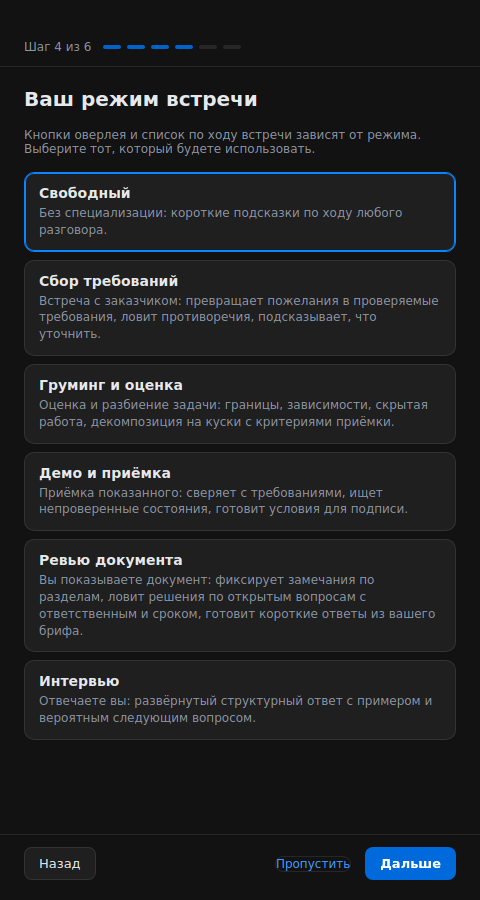
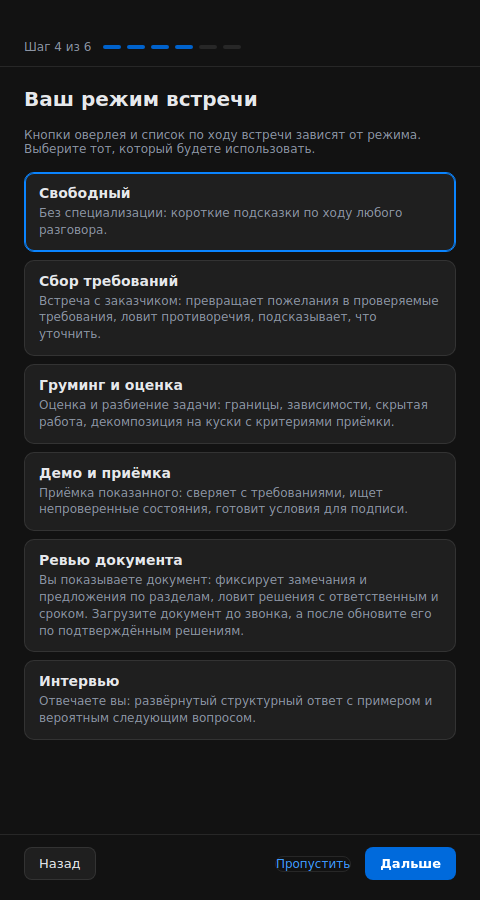
Review mode docs, screenshots and self-review fixes
READMEs (EN/RU): what the review mode does with the document, what goes to
the model when, the decisions file format, the honest limitation. CHANGELOG,
MAC_VERIFY step 9b (EN/RU), screenshots regenerated by the E2E suite, the
guide's review image with proposals. Fixes: larger answer cap for a review
summary with decisions (a cut JSON tail would lose agenda and actions), the
summary cost counts the decisions in the answer, the document field never
overwrites fresh typing, the index is not rebuilt on every keystroke.

Claude-Session: https://claude.ai/code/session_015aQgzusoHhv4LZqSKqDoPj

Changed region(s): [[0.0938, 0.6222, 0.9062, 0.7156]]

diff --git a/electron/main.ts b/electron/main.ts
@@ -412,7 +412,7 @@ const SCREENSHOT_MODE_ANSWERS: Partial<Record<MeetingMode, string>> = {
   demo:
     "Отклонение: по требованию выше порога нужен звонок, показано без подтверждения.\nОтклонение: нет сообщения об ошибке при лимите ниже нуля.\nПопросите показать: что видит клиент, если колл-центр не дозвонился.",
   review:
-    "Замечание: раздел 3, порог подтверждения не указан, сказал владелец продукта.\nЗамечание: раздел 5, нет схемы интеграции, сказал архитектор.\nРешение: порог 300 тысяч принят, владелец аналитик, срок пятница.",
+    "Замечание: раздел 3, порог подтверждения не указан, сказал владелец продукта.\nЗамечание: раздел 5, нет схемы интеграции, сказал архитектор.\nПредложение: раздел 3.1, поднять размер страницы до 100 записей, сказал разработчик.\nРешение: порог 300 тысяч принят, владелец аналитик, срок пятница.",
 };
 
 // Design check without a Mac: AVALET_SCREENSHOT_DIR=<dir> electron . renders

diff --git a/src/renderer/components/ArtifactField.tsx b/src/renderer/components/ArtifactField.tsx
@@ -1,4 +1,4 @@
-import { useEffect, useRef, useState } from "react";
+import { useEffect, useMemo, useRef, useState } from "react";
 import { getBridge } from "../lib/bridge.js";
 import { UI_STRINGS, type UiLanguage } from "../lib/i18n.js";
 import { useAppSettings } from "../lib/settings.js";
@@ -22,12 +22,16 @@ export function ArtifactField({ uiLanguage }: { uiLanguage: UiLanguage }) {
   const [edited, setEdited] = useState(false);
   const [error, setError] = useState<string | null>(null);
   const fileRef = useRef<HTMLInputElement | null>(null);
+  const savedRef = useRef(saved);
+  savedRef.current = saved;
   const locked = session.state !== "idle";
 
-  // The stored document, again after a meeting ends (it may have been set elsewhere).
+  // The stored document, again after a meeting ends (it may have been set elsewhere);
+  // never over text typed since the last save.
   useEffect(() => {
-    if (!saved) return;
+    if (!savedRef.current) return;
     void bridge.settings.getArtifact().then((doc) => {
+      if (!savedRef.current) return;
       setText(doc.text);
       setName(doc.name);
     });
@@ -76,7 +80,7 @@ export function ArtifactField({ uiLanguage }: { uiLanguage: UiLanguage }) {
     }
   }
 
-  const cost = artifactFieldCost(settings.meetingMode, text);
+  const cost = useMemo(() => artifactFieldCost(settings.meetingMode, text), [settings.meetingMode, text]);
   const fmt = (n: number) => formatTokens(n, uiLanguage);
 
   return (

diff --git a/src/renderer/lib/artifact-cost.ts b/src/renderer/lib/artifact-cost.ts
@@ -6,6 +6,7 @@ import {
   expectedReplyChars,
   patchDecisions,
   SUMMARY_ARTIFACT_OVERHEAD_CHARS,
+  SUMMARY_DECISIONS_REPLY_CHARS,
   buildArtifactIndex,
   estimateTokens,
   roundTokens,
@@ -31,7 +32,7 @@ export type FieldCost = {
 export function artifactFieldCost(mode: MeetingMode, text: string): FieldCost | null {
   if (mode !== "review" || !text.trim()) return null;
   return {
-    tokensEach: roundTokens(estimateTokens(text.length + SUMMARY_ARTIFACT_OVERHEAD_CHARS)),
+    tokensEach: roundTokens(estimateTokens(text.length + SUMMARY_ARTIFACT_OVERHEAD_CHARS + SUMMARY_DECISIONS_REPLY_CHARS)),
     indexTokens: roundTokens(estimateTokens(buildArtifactIndex(text).length + LIVE_INDEX_OVERHEAD_CHARS)),
     sectionTokens: roundTokens(estimateTokens(ARTIFACT_SECTION_CHAR_CAP)),
     high: text.length > ARTIFACT_HIGHLIGHT_CHARS,
@@ -43,7 +44,7 @@ export function summaryExtraCost(meeting: { mode: MeetingMode; artifact?: { text
   const text = meeting.artifact?.text ?? "";
   if (meeting.mode !== "review" || !text.trim()) return null;
   return {
-    tokens: roundTokens(estimateTokens(text.length + SUMMARY_ARTIFACT_OVERHEAD_CHARS)),
+    tokens: roundTokens(estimateTokens(text.length + SUMMARY_ARTIFACT_OVERHEAD_CHARS + SUMMARY_DECISIONS_REPLY_CHARS)),
     high: text.length > ARTIFACT_HIGHLIGHT_CHARS,
   };
 }

diff --git a/test/artifact-cost.test.ts b/test/artifact-cost.test.ts
@@ -23,8 +23,8 @@ test("the figure grows with the document and a large one is highlighted", () => 
   assert.ok(large.tokensEach > small.tokensEach * 10);
   assert.equal(small.high, false);
   assert.equal(large.high, true);
-  // 90,000 characters at 3 per token, plus the prompt around it: about 31,000.
-  assert.equal(large.tokensEach, 31_000);
+  // 90,000 characters at 3 per token, plus the prompt around it and the decisions in the answer: about 32,000.
+  assert.equal(large.tokensEach, 32_000);
 });
 
 test("the summary note appears only for a review meeting with a document", () => {

diff --git a/electron/shared/artifact.ts b/electron/shared/artifact.ts
@@ -179,6 +179,8 @@ export function sectionText(raw: string, section: ArtifactSection, cap = ARTIFAC
  * real prompt builders.
  */
 export const SUMMARY_ARTIFACT_OVERHEAD_CHARS = 3_000;
+/** Allowance for the decisions list in the summary's answer. */
+export const SUMMARY_DECISIONS_REPLY_CHARS = 3_000;
 export const PATCH_PROMPT_OVERHEAD_CHARS = 3_500;
 /** Wrapper text around the index in a live call. */
 export const LIVE_INDEX_OVERHEAD_CHARS = 250;

diff --git a/electron/meeting-summary.ts b/electron/meeting-summary.ts
@@ -52,7 +52,8 @@ export async function summarizeMeeting(
       artifact: meeting.artifact?.text,
     }),
     transcript,
-    maxTokens: 6000,
+    // The decisions list makes the answer longer; a cut-off JSON tail would lose agenda and actions too.
+    maxTokens: meeting.mode === "review" && meeting.artifact?.text ? 9000 : 6000,
     signal,
     onDelta: (delta) => {
       collected += delta;

diff --git a/README.ru.md b/README.ru.md
@@ -23,8 +23,9 @@
 - **Распознавание речи, которое следует за разговором.** Звук режется по естественным паузам на целые фразы, а не на равные куски, а язык речи задаётся, а не угадывается каждый раз. Модель распознавания одна (faster-whisper small), выбирать ничего не нужно. Наушники полностью убирают эхо от динамиков.
 - **Контекст встречи.** Вставьте тикет, ТЗ или повестку до звонка, и каждая подсказка будет опираться на них.
 - **Ручной вопрос, быстрые кнопки, скриншот.** Спросите что угодно в любой момент, нажмите "Итог" / "Риски?" / "Уточняющий вопрос" / "Объяснить" или отправьте скриншот экрана для приоритетного разбора. Модели с картинками (Claude, OpenAI, DeepSeek) получают изображение, это быстрый путь; по желанию в настройках можно добавить текст, распознанный на вашем Mac, для точных имён, чисел и кода (примерно на секунду медленнее). Модели без картинок (локальные) всегда видят экран как распознанный текст. Если провайдер отверг картинку, Avalet повторит запрос с текстом.
-- **Режимы встречи.** Сбор требований, груминг и оценка, демо и приёмка, ревью документа, интервью или свободный: каждый смещает, на что ассистент обращает внимание. Четыре из них ещё и ведут в оверлее свой список по ходу встречи, собранный из подсказок без лишних запросов к модели: требования и риски, предложенные срезы и отдельные задачи, отклонения и что попросить показать, замечания и решения. Одна кнопка копирует его.
-- **Транскрипт и итог встречи.** Каждый звонок сохраняется как встреча с транскриптом по репликам, со временем и говорящим. Одна кнопка пишет итог в формате аналитика: решения, открытые вопросы, требования, риски, задачи. Экспорт в Markdown или копирование чистым текстом.
+- **Режимы встречи.** Сбор требований, груминг и оценка, демо и приёмка, ревью документа, интервью или свободный: каждый смещает, на что ассистент обращает внимание. Четыре из них ещё и ведут в оверлее свой список по ходу встречи, собранный из подсказок без лишних запросов к модели: требования и риски, предложенные срезы и отдельные задачи, отклонения и что попросить показать, замечания, предложения и решения. Одна кнопка копирует его.
+- **Ревью документа помогает обновить спецификацию.** До звонка загрузите спецификацию, которую обсуждаете (файл `.md` или `.txt` либо вставленный текст, до 200 000 символов). Во время звонка ассистент видит только её оглавление, поэтому подсказки не дорожают; после звонка в итогах будут решения, которые действительно приняли: раздел, старая и новая формулировка и слова, которые прозвучали. Вы проверяете и поправляете их, нажимаете «Обновить документ», просматриваете каждую правку рядом с исходным текстом, применяете нужные и скачиваете обновлённый `.md`. Модель только предлагает правки в точных местах, применяет их приложение, исходный текст сохраняется. Перед каждым дополнительным расходом (документ в итогах и в обновлении) приложение показывает примерное число токенов.
+- **Транскрипт и итог встречи.** Каждый звонок сохраняется как встреча с транскриптом по репликам, со временем и говорящим. Одна кнопка пишет итог в формате аналитика: решения, открытые вопросы, требования, риски, задачи. Экспорт в Markdown или копирование чистым текстом. В ревью документа можно ещё скачать обновлённый документ и файл решений (см. ниже).
 - **Пауза / Продолжить / Завершить / история.** Кнопки с подписями в оверлее и в главном окне: Пауза замораживает подсказки, ничего не теряя, старые блоки листаются, продолжить можно мгновенно; Завершить закрывает встречу и прячет оверлей. История хранится на диске.
 - **Видно, сколько потрачено токенов.** Счётчики берутся из ответов самих провайдеров, за месяц и за встречу, в Настройках; в оверлее маленькое число за текущую встречу. Для фоновой работы можно поставить модель дешевле. Когда токены Avalet заканчиваются, ничего не ломается: расшифровка продолжает писаться, а приложение предлагает докупить токены или подключить свой ключ.
 - **Оверлей не попадает в вашу демонстрацию экрана** (защита контента macOS), как заметки докладчика.
@@ -90,6 +91,32 @@ npm run dev
 - **Распознавание речи** полностью локальное: `faster-whisper` в `python-sidecar/server.py`, общение по JSON-RPC через stdin/stdout.
 - **Триггер авто-подсказок:** дешёвая регулярка по свежему транскрипту плюс сигнал "собеседник замолчал" из таймингов сегментов whisper. Без лишнего вызова модели. Частота зависит от режима встречи: в интервью ответ сразу (не чаще раза в 6 секунд); в свободном режиме не чаще раза в 15 секунд и после полноценной фразы; в режимах со своим списком примерно раз в 25 секунд, после существенного высказывания или вопроса. Свой вопрос, быстрые кнопки, скриншот и "Обработать сейчас" отвечают сразу всегда.
 
+### Ревью документа: что куда уходит
+
+- **До звонка:** документ хранится в локальных настройках приложения и при Старте копируется во встречу ревью. Он уходит только выбранному вами провайдеру модели, как и транскрипт, и никогда не пишется в лог.
+- **Во время звонка:** подсказки получают оглавление, собранное из заголовков документа (номера разделов, первые строки, раздел «Открытые вопросы» дословно), не длиннее 4 000 символов. Если в заданном вопросе назвать раздел («что в разделе 3.2?»), к вопросу добавится этот раздел.
+- **После звонка:** итоги получают весь документ только как справку (названия разделов и старые формулировки); решения берутся только из транскрипта, а «принято» требует явного согласия в нём. «Обновить документ» один раз отправляет документ и отмеченные решения; в ответ приходит список правок в точных местах, приложение проверяет их (место должно быть и встречаться один раз) и показывает до применения.
+- **Файл решений** (`<встреча> - decisions.md`) с постоянными заголовками, чтобы передать его вместе с исходным документом:
+
+```
+# Решения: <название встречи>
+Дата: ...
+Документ: <имя файла>
+
+## 1. <решение в виде правки>
+- Раздел: 3.1 GET /activities
+- Статус: Принято | Предложено | Отклонено | Не решено
+- Было: <старая формулировка или «нет»>
+- Стало: <новая формулировка или «нет»>
+- Кто: <как прозвучало на звонке>
+- Цитата: «<точные слова>» (<кто>, 00:12:04)
+
+## Поручения
+- <задача> (<ответственный>, <срок>)
+```
+
+В файл попадают только отмеченные решения; заголовки на языке интерфейса (английский: Decisions, Date, Document, Section, Status, Was, Becomes, Who, Quote, Action points).
+
 ## Экраны
 
 | Первый запуск | Встреча в простом режиме | Оверлей |
@@ -102,6 +129,7 @@ npm run dev
 
 - **Вариант "Avalet без ключей" пока не запущен.** Клиентская часть готова и проверена на тестовом сервере; сервер оплаты, его ключ подписи и платёжный шлюз ещё не развёрнуты. До тех пор приложение показывает этот вариант как "Скоро", не обращается к серверу оплаты и работает с вашим ключом.
 - **Живой чек-лист ещё не проверен на реальных встречах.** В простом режиме он выключен, в расширенном включён.
+- **Решения и правки в ревью документа ещё не проверены на настоящей модели.** Весь путь проверен сквозными тестами с моделью-заглушкой; насколько хорошо настоящая модель находит решения и точные места, покажут реальные звонки. Итоги с документом и обновление отправляют весь документ, поэтому для очень длинного нужен провайдер с большим контекстом.
 - **Захват системного звука бывает хрупким.** Используется [`electron-audio-loopback`](https://github.com/alectrocute/electron-audio-loopback) (MIT); нужна macOS 13.2+. Если звук собеседника не идёт, появится баннер с кнопкой **Переподключить**. Только микрофон работает всегда.
 - **Неподписанная сборка.** См. шаги установки выше. Подпись и автообновление в планах.
 - **Модель распознавания скачивается с Hugging Face** при первом запуске. Если из вашей сети это медленно или недоступно, включите VPN на время первой загрузки (наш: [ast-net.ru](https://ast-net.ru)); дальше модель лежит в кэше. Модель внутри приложения в планах.

diff --git a/README.md b/README.md
@@ -23,8 +23,9 @@ Local-first: audio never leaves your Mac and transcription runs on-device. For t
 - **Speech recognition that follows the conversation.** Audio is cut at natural pauses into whole phrases rather than fixed slices, and the spoken language is fixed rather than guessed every time. There is one speech model (faster-whisper small), no choice to make. Headphones remove the speaker echo completely.
 - **Meeting context.** Paste the ticket, spec, or agenda before the call; every suggestion is grounded in it.
 - **Manual ask, quick actions, screenshot.** Type a question any time, tap "Summarize" / "Risks?" / "Ask a question" / "Explain this", or send a screenshot of your screen for a priority read. Models that see images (Claude, OpenAI, DeepSeek) get the picture, which is the fast path; an optional setting adds the text recognized on your Mac for exact names, numbers and code (about a second slower). Models that do not (local ones) always get the screen as recognized text. If a provider refuses the image, Avalet retries with the text.
-- **Meeting modes.** Requirements gathering, grooming and estimation, demo and acceptance, document review, interview, or free: each shifts what the assistant pays attention to. Four of them also keep a running list in the overlay, collected from the suggestions with no extra model call: candidate requirements and risks, proposed slices and separate tasks, deviations and what to ask to see, remarks and decisions. One click copies it.
-- **Transcript and meeting summary.** Every call is saved as a meeting with a timestamped, speaker-tagged transcript. One button writes the summary in an analyst's format: decisions, open questions, requirements, risks, tasks. Export to Markdown or copy as plain text.
+- **Meeting modes.** Requirements gathering, grooming and estimation, demo and acceptance, document review, interview, or free: each shifts what the assistant pays attention to. Four of them also keep a running list in the overlay, collected from the suggestions with no extra model call: candidate requirements and risks, proposed slices and separate tasks, deviations and what to ask to see, remarks, proposals and decisions. One click copies it.
+- **Document review keeps your specification in sync.** Load the specification you are discussing (a `.md` or `.txt` file, or pasted, up to 200,000 characters) before the call. During the call the assistant sees only its table of contents, so hints stay cheap; after the call the summary returns the decisions that were actually taken, each with its section, old and new wording and the words that were said. You check and correct them, press "Update the document", look through every proposed change next to the original, apply the ones you want and download the updated `.md`. The model only proposes changes to exact places; the app applies them and keeps the original. Before each extra spend (the document's share of the summary and of the update) the app shows a rough token figure.
+- **Transcript and meeting summary.** Every call is saved as a meeting with a timestamped, speaker-tagged transcript. One button writes the summary in an analyst's format: decisions, open questions, requirements, risks, tasks. Export to Markdown or copy as plain text. In document review you can also download the updated document and a decisions file (see below).
 - **Pause / Resume / End / history.** Labelled buttons in the overlay and the main window: Pause freezes live output without losing anything, page through earlier blocks, resume instantly; End closes the meeting and hides the overlay. History is kept on disk.
 - **Token usage you can see.** Counts come from the providers' own responses, per month and per meeting, in Settings; the overlay shows a small per-meeting number. Background work can use a cheaper model. When Avalet tokens run out, nothing breaks: the transcript keeps recording and the app offers more tokens or your own key.
 - **Overlay stays out of your screen share** (macOS content protection), the way presenter notes do.
@@ -90,6 +91,32 @@ system audio (loopback)               5s WAV chunks, tagged "other"
 - **Speech to text** is fully local: `faster-whisper` in `python-sidecar/server.py`, talked to over newline-delimited JSON-RPC on stdin/stdout.
 - **Auto-suggest trigger:** a cheap regex over the freshly heard transcript plus a VAD-based "they stopped talking" signal from whisper's own segment timing. No extra model call. The pace depends on the meeting mode: interview answers at once (at most every 6 s); free waits for at least 15 s and a real sentence; the modes with a running list wait for about 25 s and a substantial statement or a question. Typed questions, quick actions, Screenshot and "Process now" always answer at once.
 
+### Document review: what goes where
+
+- **Before the call:** the document is kept in the app's local settings and copied onto the review meeting at Start. It is sent only to the model provider you chose, like the transcript, and never written to the log.
+- **During the call:** live hints get a table of contents built from the document's headings (section numbers, first lines, an "Open questions" section word for word), capped at 4,000 characters. A typed question that names a section ("what does section 3.2 say?") also gets that section.
+- **After the call:** the summary gets the whole document as reference only (for section names and the old wording); decisions come from the transcript alone, and "accepted" needs an explicit agreement in it. "Update the document" sends the document and the checked decisions once; the answer is a list of changes to exact places, which the app checks (the place must exist and be unique) and shows before anything is applied.
+- **Decisions file** (`<meeting> - decisions.md`), stable headings for handing to someone else together with the original:
+
+```
+# Decisions: <meeting title>
+Date: ...
+Document: <file name>
+
+## 1. <decision, phrased as an edit>
+- Section: 3.1 GET /activities
+- Status: Accepted | Proposed | Rejected | Open
+- Was: <old wording or "none">
+- Becomes: <new wording or "none">
+- Who: <as said in the call>
+- Quote: «<exact words>» (<speaker>, 00:12:04)
+
+## Action points
+- <task> (<owner>, <due>)
+```
+
+Only checked decisions are listed; headings follow the interface language (Russian: Решения, Дата, Документ, Раздел, Статус, Было, Стало, Кто, Цитата, Поручения).
+
 ## Screens
 
 | First run | Simple meeting | Overlay |
@@ -102,6 +129,7 @@ All screens, both themes: [`docs/screens/`](docs/screens/README.md). They are re
 
 - **The "Avalet without keys" option is not live yet.** The client side is done and tested against a mock server; the billing server, its signing key and the payment gateway are not deployed. Until then the app shows the option as "Coming soon", never contacts a billing server, and works with your own key.
 - **The live checklist is not yet verified on real meetings.** It is off in the Simple level and on in Advanced.
+- **Document review's decisions and changes are not yet verified on a real model.** The flow is tested end to end with a mock model; how well a real model finds decisions and exact places has to be judged on real calls. The summary with a document and the update send the whole document, so a very long one needs a provider with a large context window.
 - **System audio capture can be fragile.** Uses [`electron-audio-loopback`](https://github.com/alectrocute/electron-audio-loopback) (MIT); needs macOS 13.2+. If the other side's audio doesn't come through, a banner shows up with a **Reconnect** button. Mic-only always works as a fallback.
 - **Unsigned build.** See the install steps above. Code signing and auto-update are planned.
 - **Speech model is downloaded from Hugging Face** on first run. If that's slow or blocked on your network, use a VPN for the first download (ours: [ast-net.ru](https://ast-net.ru)); the model is cached afterwards. Bundling the model with the app is on the roadmap.

diff --git a/docs/dev/MAC_VERIFY.ru.md b/docs/dev/MAC_VERIFY.ru.md
@@ -53,6 +53,7 @@ HF_HOME="$HOME/avalet-fresh-test/hf-cache" \
 | 8b | Тарифы и режимы (мок-сервер как в шаге 8, свежий пробный доступ: новый профиль или другой пользователь Mac). Главный экран простого режима, список типов встречи; выберите "Ревью документа"; нажмите "Не сейчас"; выберите снова и нажмите "Подключить Pro"; на странице мока нажмите "succeed". Затем Настройки в простом режиме и встреча без повестки. Затем переключитесь на свой ключ и снова откройте список типов. | На пробном доступе у "Ревью документа" и "Демо и приёмка" пометка "(в Pro)"; выбор открывает карточку со снимком экрана, описанием и кнопкой "Подключить Pro", список остаётся на прежнем типе. После "succeed" карточка за 5 с показывает "Готово", "Выбрать" включает тип. До оплаты в Настройках строка "Живой чек-лист: в тарифе Pro" с кнопкой "Как это работает", в оверлее строка "Живой чек-лист в Pro". Со своим ключом: нет пометок "(в Pro)", карточек и заблокированных строк, выбирается любой тип. |
 | 9 | Настройки → "Расширенный режим". Отметь переключатель живого чек-листа, ползунок прозрачности на оверлее, "Открыть папку с логами". | Расширенный режим показывает все настройки; чек-лист включён; лог открывается в Finder и содержит только тайминги, без текста встречи и ключей. |
 | 9a | Расширенный режим, свой ключ, встреча "Сбор требований" с повесткой из трёх строк, 3-5 минут настоящего разговора, где закрывается один вопрос повестки и договариваются об одной задаче. Открой чек-лист в оверлее, нажми на закрытый пункт и на задачу; дождись следующей подсказки с открытым списком и курсором в стороне. Затем главное окно, вкладка Встреча, блок повестки: нажми на время рядом с цитатой. Заверши встречу и выгрузи протокол. Посчитай автоматические подсказки за эти минуты. | Пункт показывает короткий итог и точные слова, кто и когда (м:сс); задача показывает исполнителя, срок и свои слова. Открытый список сам сворачивается, когда начинается следующая подсказка, и не разворачивается обратно; подсказка занимает большую часть высоты оверлея. В главном окне кнопка времени прокручивает расшифровку к этой фразе и подсвечивает её. В протоколе цитата стоит под пунктом и под таблицей задач. Автоматическая подсказка примерно раз в 25 секунд или реже в сборе требований (раз в 15 секунд или реже в свободном, раз в 6 секунд в интервью); "Обработать сейчас", быстрые кнопки и свой вопрос отвечают сразу. |
+| 9b | Ревью документа, свой ключ, простой режим. Тип встречи "Ревью документа"; в "Контекст и повестка" нажми "Загрузить файл" и выбери `test/fixtures/spec-activity-journal.md` из репозитория (или свою спецификацию). Прочитай пояснение под полем. Start; с коллегой (или читая обе роли вслух) обсудите: собеседник предлагает поднять размер страницы в разделе 3.1 с 50 до 100, ты говоришь "согласен"; собеседник предлагает выгрузку в XLSX, никто не соглашается; спроси в оверлее "что в разделе 3.1?". Заверши встречу. Прочитай пояснение под кнопками, нажми "Итог встречи". В блоке "Решения" проверь список, включи ещё одно, поправь формулировку, удали одно. Нажми "Обновить документ", прочитай подтверждение, "Отправить". Просмотри правки, сними галочку с одной, "Применить". "Скачать документ", "Скачать решения", "Вернуть исходный". | До Старта поле показывает имя файла, размер и понятное пояснение о расходе (в конце документ уйдёт модели два раза, примерно по N токенов; подсказки получают только оглавление). Во время встречи поле не редактируется. Список в оверлее показывает замечания, предложения и решения; на вопрос про раздел 3.1 ответ опирается на этот раздел. После завершения пояснение говорит, на сколько токенов дороже итоги. Решения: согласованная правка "Принято" и отмечена, раздел 3.1, прозвучавшие слова и время, по которому открывается место в расшифровке; предложение про XLSX "Предложено" и не отмечено. Подтверждение раскладывает токены (документ, решения, ответ). Каждая правка показывает старый и новый текст; до "Применить" ничего не меняется; скачанный `.md` отличается от исходного только применёнными правками; файл решений содержит только отмеченные решения с постоянными заголовками. В логе нет текста документа. Оцени на глаз, верно ли найдены решения и правки: это видно только на настоящей модели. |
 | 10 | Путь обновления: поставь эту сборку поверх установки 0.1 с сохранённым ключом (или оставь данные прежнего приложения в `~/Library/Application Support/Avalet`). | Мастер не запускается; расширенный режим; старый ключ работает; старые встречи в Истории. |
 
 Если что-то не сработает, приложи `~/Library/Logs/Avalet/avalet.log` и номер шага.

diff --git a/docs/dev/MAC_VERIFY.md b/docs/dev/MAC_VERIFY.md
@@ -29,6 +29,7 @@ Tick each item; "Expected" is what must happen.
 | 8b | Plans and modes (mock server as in step 8, a fresh trial: remove the entitlement with a new profile or use a second Mac user). Simple home, meeting type list; choose "Document review"; press "Not now"; choose it again and press "Get Pro"; press "succeed" on the mock page. Then Settings in Simple, and a meeting with an agenda-less start. Then switch to your own key and open the meeting type list again. | On the trial "Document review" and "Demo / acceptance" carry "(в Pro)"; choosing one opens a card with a screenshot, what it does and "Get Pro"; the list stays on the old type. After "succeed" the card says "Done" within 5 s and "Use it" selects the type. Before paying, Settings show "Live checklist: in the Pro plan" with "How it works" and the overlay shows "Live checklist in Pro". With your own key: no "(в Pro)", no card, no locked rows, every type selectable. |
 | 9 | Settings, "Advanced mode". Check the live checklist switch, the opacity slider on the overlay, "Open the log folder". | Advanced shows every setting; the checklist is on; the log opens in Finder and contains timings only, no meeting text or keys. |
 | 9a | Advanced, own key, a requirements meeting with a three-line agenda, 3 to 5 minutes of real talk that answers one agenda question and agrees on one task. Open the overlay checklist, click the answered item and the task; wait for the next suggestion with the list open and the pointer elsewhere. Then the main window, Meeting tab, the agenda block: click the time next to a quote. End and export the protocol. Count the automatic suggestions over those minutes. | The item shows the short verdict and the exact words said, with who and the time (m:ss); a task shows owner, due and its words. The open list folds by itself when the next suggestion starts and stays folded; the suggestion keeps most of the overlay height. In the main window the time button scrolls the transcript to that phrase and lights it. The protocol has the quote under the item and under the task table. Roughly one automatic suggestion every 25 s or more in requirements (every 15 s or more in free, every 6 s in interview); Process now, quick actions and typed questions answer at once. |
+| 9b | Document review, own key, Simple. Meeting type "Document review"; in "Context and agenda" press "Load file" and pick `test/fixtures/spec-activity-journal.md` from the repo (or a spec of your own). Read the note under the field. Start; with a colleague (or read both parts aloud) discuss: the other side proposes raising the page size in section 3.1 from 50 to 100 and you say "agreed"; the other side proposes an XLSX export and nobody agrees; ask in the overlay "what is in section 3.1?". End. Read the note under the buttons, press "Meeting summary". In "Decisions" check the list, include one more, fix a wording, delete one. Press "Update the document", read the confirmation, "Send". Look through the changes, uncheck one, "Apply". "Download document", "Download decisions", "Back to the original". | Before Start the field shows the file name, its size and a plain cost note (the document goes to the model twice at the end, about N tokens each; hints get only the table of contents). While the meeting runs the field cannot be edited. The overlay board shows remarks, proposals and decisions; the typed question about section 3.1 is answered from that section. After End a note says how many more tokens the summary costs. Decisions: the agreed change is "Accepted" and checked, with section 3.1, the words said and a time that jumps to the transcript; the XLSX proposal is "Proposed" and unchecked. The confirmation splits the tokens (document, decisions, answer). Each change shows the old and new text; nothing changes until "Apply"; the downloaded `.md` differs from the original only in the applied changes; the decisions file lists only checked decisions with fixed headings. The log has no document text. Judge by eye whether the decisions and the changes are right: this is the part only a real model shows. |
 | 10 | Update path: install this build over a 0.1 install that has a saved key (or keep the previous app's data in `~/Library/Application Support/Avalet`). | No wizard; Advanced level; the old key still works; old meetings are in History. |
 
 If anything fails, attach `~/Library/Logs/Avalet/avalet.log` and the step number.

diff --git a/CHANGELOG.md b/CHANGELOG.md
@@ -3,6 +3,7 @@
 ## Unreleased (after 0.2.0-rc.2)
 
 ### Added
+- **Document review keeps the specification in sync.** Load the specification (`.md`/`.txt` file or pasted text, up to 200,000 characters) before a review call; live hints get only its table of contents (section numbers, first lines, open questions), a typed question that names a section gets that section. After the call the summary returns the decisions actually taken (status, who, section, was/becomes, the exact words and time); quotes are checked against the transcript and an "accepted" decision without them starts unchecked. The meeting screen shows them as a checklist to correct; "Update the document" asks the model for changes to exact places only, the app checks each one against the original, shows them side by side and applies only the checked ones, keeping the original for undo. Download the updated `.md` or copy it, and download the decisions as a structured `.md`. Every extra spend is announced first with a rough token figure: in the document field, before the summary, and in a confirmation before the update. Review boards collect proposals next to remarks and decisions.
 - **A running list per meeting mode in the overlay:** requirements (candidate requirements, risks), grooming (proposed slices, separate tasks, risks), demo (deviations, what to ask to see), review (remarks, decisions). Collected from the suggestions themselves, no extra model call; one click copies it. The mode prompts now put these items on their own lines.
 - In grooming the "Risks?" button also asks about hidden work (migration, flags, monitoring, rollback, access).
 - **Plans of the built-in provider can include different meeting modes and the live checklist.** A mode or the checklist that the plan does not include keeps its place, and choosing it shows what it does with a real screenshot, which plan has it, and the upgrade button; after paying it unlocks in place. None of this applies to your own key, which keeps every mode and the checklist, free, or to a build without a billing server (today's builds). The billing contract gained an optional `features` list in the entitlement token.

diff --git a/docs/dev/DECISIONS.md b/docs/dev/DECISIONS.md
@@ -154,3 +154,5 @@ One line each: decision, reason.
 - The preview lists each good patch (now / after, checkbox, on by default) and, under "Not applied", bad patches, skipped decisions with the model's reason, and sent decisions the answer ignored. Apply = original + the checked patches, so unchecking and applying again undoes one; "Back to the original" drops the result. Proposal and result are stored on the meeting and reopen with it.
 - Warning 3 (before the spend): next to "Update the document" the total rough figure; pressing it opens a confirmation that splits it (document, checked decisions, expected answer) with Send / Cancel. The call goes out only after Send. Figures are rounded ("about"), so the parts need not add up exactly.
 - Exports: "Download document" writes `artifactResult.text` byte for byte (name "<document name> (updated).md"); "Copy document" puts the same text on the clipboard. "Download decisions" (enabled when a decision is checked, also before any update) writes the checked decisions with fixed headings (number and text, then section, status, was, becomes, who, quote with speaker and time) and the protocol's action points; headings follow the interface language. Reason: the owner's second workflow (decisions plus the original handed to another assistant) needs a stable, readable shape.
+- The review summary with a document may answer up to 9,000 tokens (was 6,000 for every summary). Reason: a long decisions list must not cut the JSON tail, which would also lose the agenda marks and action points. The summary cost note counts about 1,000 tokens for the decisions in the answer.
+- The guide's review image (`mode-review.png`, also the locked preview) regenerated from the screenshot mode with a proposal on the board; the mode help line for review mentions the document. No other guide page changed. Reason: task rule "update the review mode line only".
